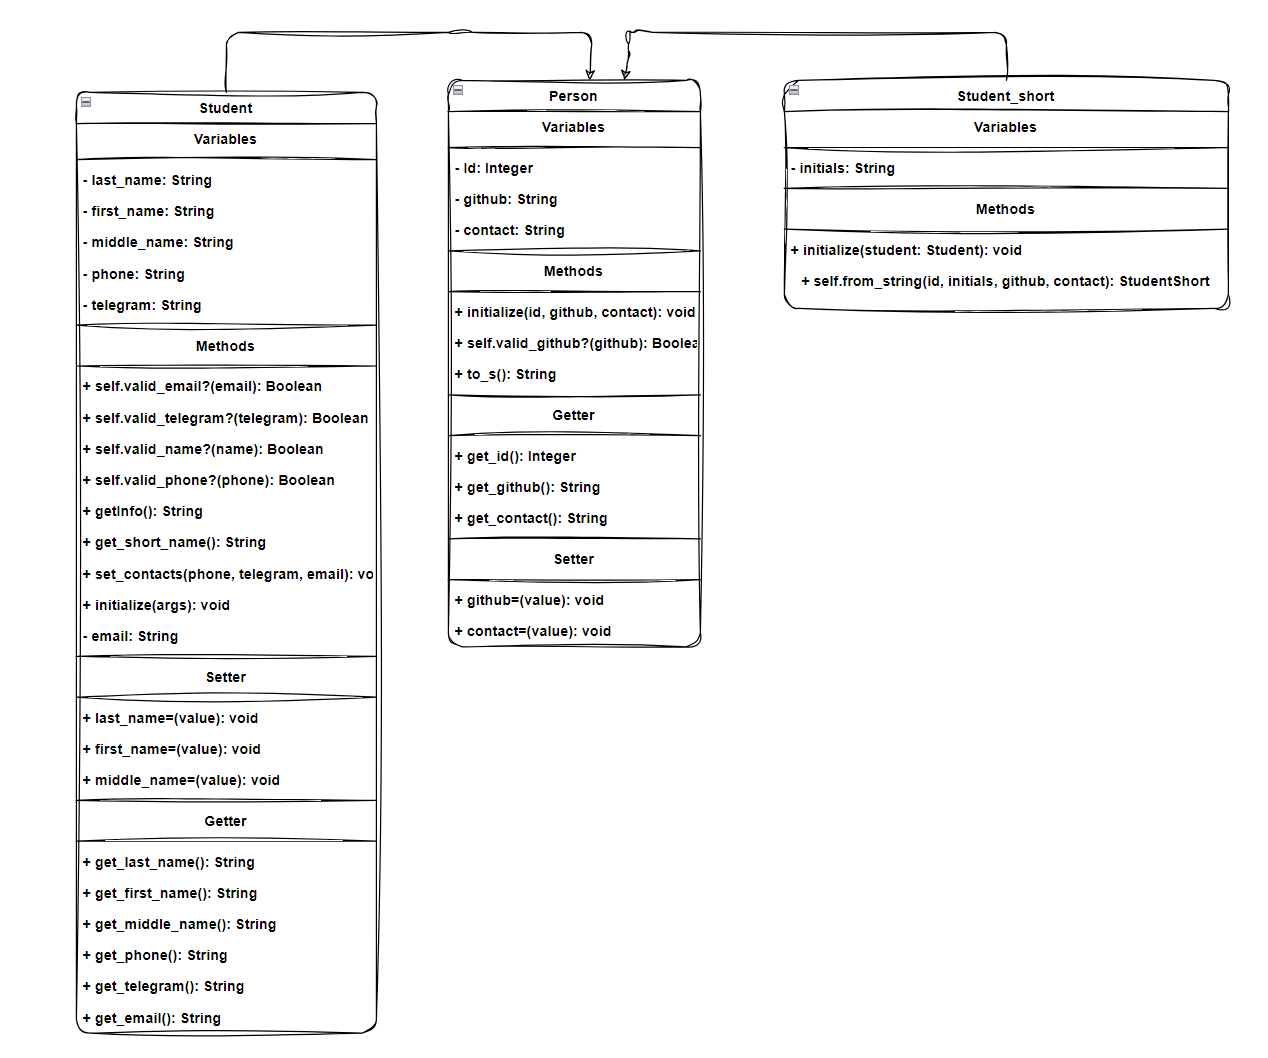
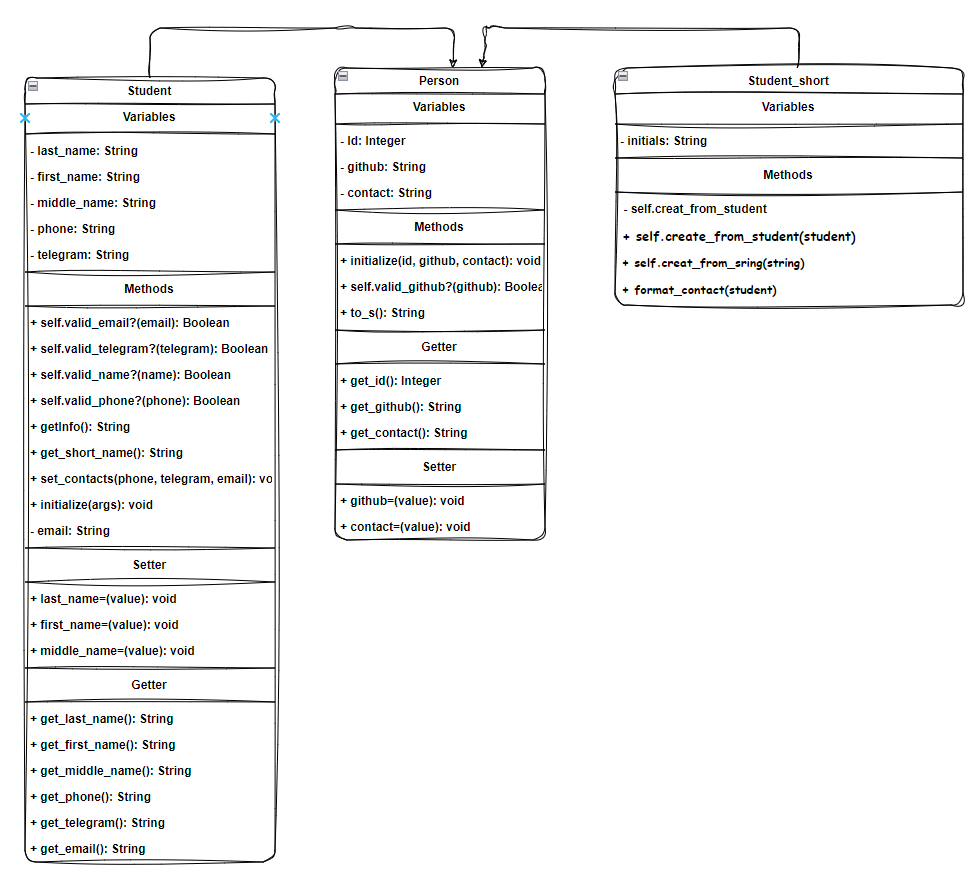
Update Diagram_class and name class

Changed region(s): [[0.0, 0.031, 0.3071, 1.0], [0.3378, 0.031, 0.5834, 0.62], [0.5834, 0.031, 1.0, 0.372]]

diff --git a/Student_Records/student.rb b/Student_Records/student.rb
@@ -1,5 +1,5 @@
 # Класс Student, наследующий от BaseStudent
-class Student < BaseStudent
+class Student < Person
   attr_reader :last_name, :first_name, :middle_name, :email, :phone, :telegram
 
   def initialize(id:, github: nil, last_name:, first_name:, middle_name: nil, email: nil, phone: nil, telegram: nil)

diff --git a/Student_Records/student_short.rb b/Student_Records/student_short.rb
@@ -1,5 +1,5 @@
 # Класс StudentShort, наследующий от BaseStudent
-class StudentShort < BaseStudent
+class StudentShort < Person
   attr_reader :initials, :contact
 
   def initialize(id:, github: nil, initials:, contact:)

diff --git a/Student_Records/person.rb b/Student_Records/person.rb
@@ -1,5 +1,5 @@
 # Базовый класс для студентов
-class BaseStudent
+class Person
   attr_reader :id, :github
 
   def initialize(id:, github: nil)
